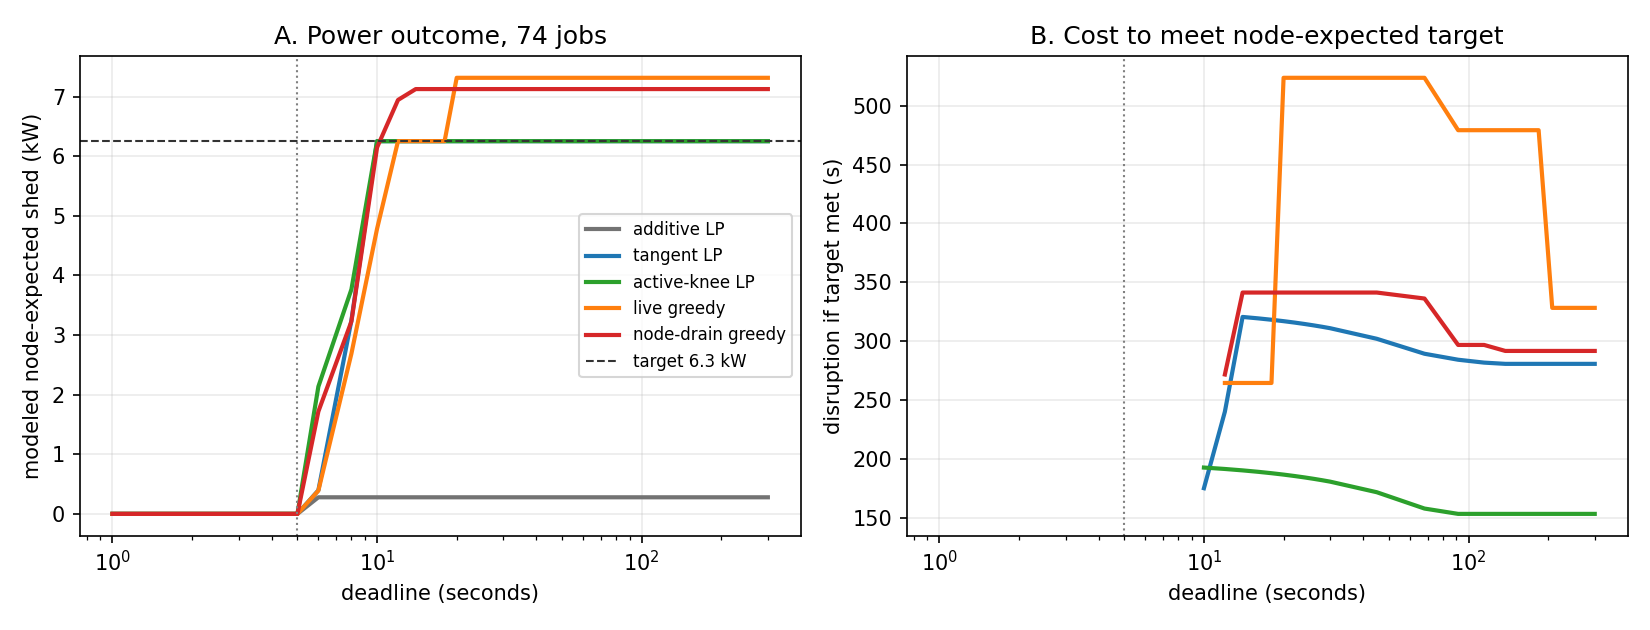
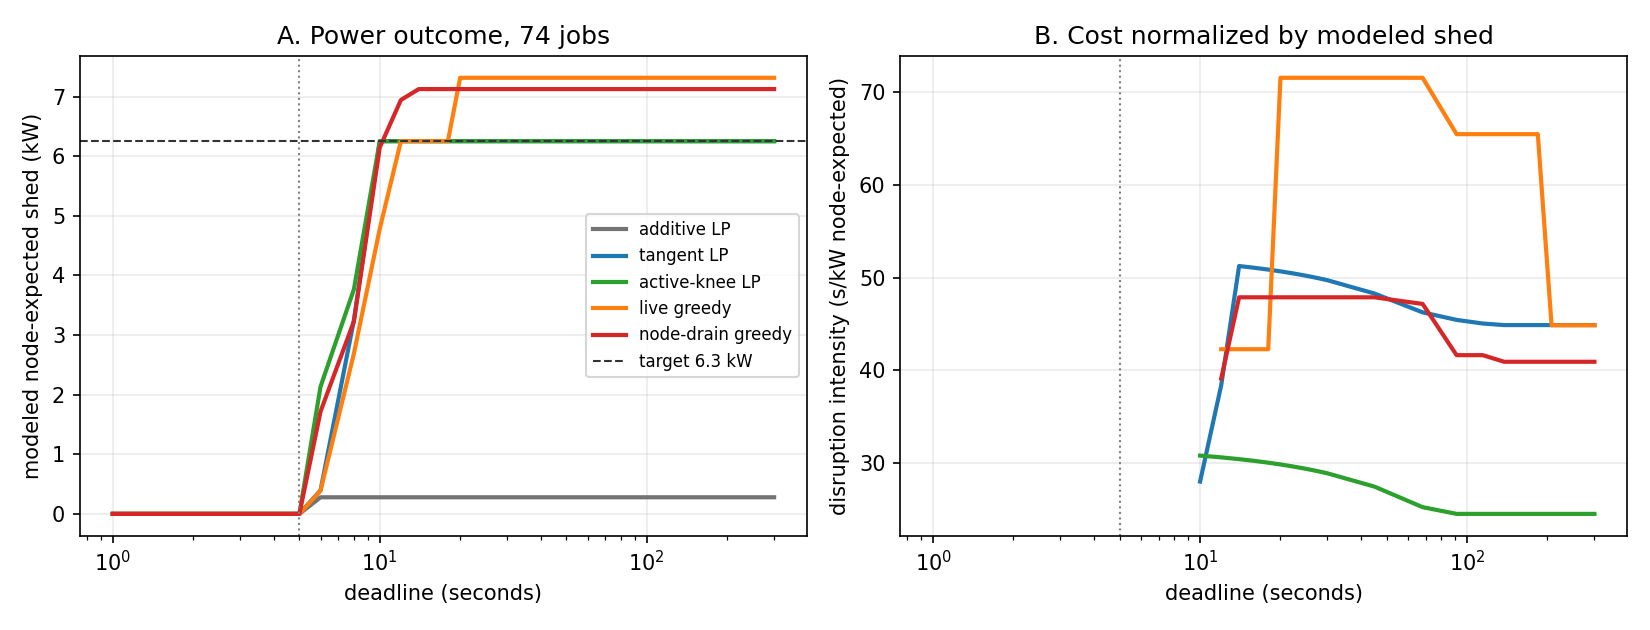
Normalize node-knee deadline disruption

diff --git a/agent-migrate/queue-haul/plot_node_knee_deadline_sweep.py b/agent-migrate/queue-haul/plot_node_knee_deadline_sweep.py
@@ -87,7 +87,7 @@ def main():
         node = np.array([r["node_kw"] for r in rs])
         cost = np.array([r["cost_s"] for r in rs], float)
         ax1.plot(D, node, lw=2, label=method, color=colors[method])
-        ax2.plot(D, cost, lw=2, label=method, color=colors[method])
+        ax2.plot(D, cost / np.maximum(node, 1e-12), lw=2, label=method, color=colors[method])
     for ax in (ax1, ax2):
         ax.set_xscale("log")
         ax.axvline(STARTUP, color="0.5", ls=":", lw=1)
@@ -95,7 +95,7 @@ def main():
         ax.set_xlabel("deadline (seconds)")
     ax1.axhline(target_kw, color="0.2", ls="--", lw=1, label=f"target {target_kw:.1f} kW")
     ax1.set(ylabel="modeled node-expected shed (kW)", title=f"A. Power outcome, {len(pop)} jobs")
-    ax2.set(ylabel="disruption if target met (s)", title="B. Cost to meet node-expected target")
+    ax2.set(ylabel="disruption intensity (s/kW node-expected)", title="B. Cost normalized by modeled shed")
     ax1.legend(fontsize=8)
     fig.tight_layout()
     os.makedirs("outputs", exist_ok=True)
@@ -108,8 +108,8 @@ def main():
         hit = [r for r in rs if r["hit"]]
         first = min((r["deadline"] for r in hit), default=np.nan)
         best = max(r["node_kw"] for r in rs)
-        min_cost = min((r["cost_s"] for r in hit), default=np.nan)
-        print(f"{method:17s} first_hit_D={first:6.1f}s  max_node={best:6.1f} kW  min_cost={min_cost:7.1f}s")
+        min_intensity = min((r["cost_s"] / r["node_kw"] for r in hit), default=np.nan)
+        print(f"{method:17s} first_hit_D={first:6.1f}s  max_node={best:6.1f} kW  min_intensity={min_intensity:7.1f}s/kW")
 
 
 if __name__ == "__main__":
